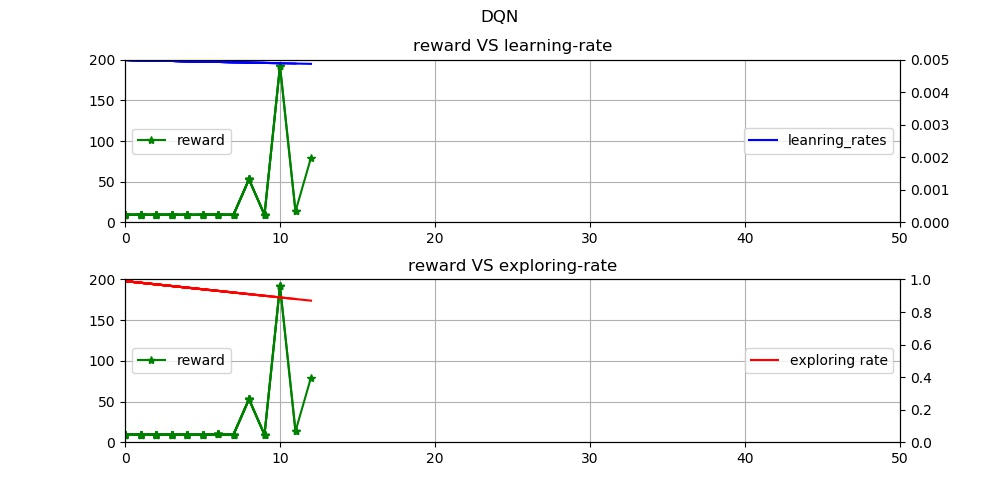
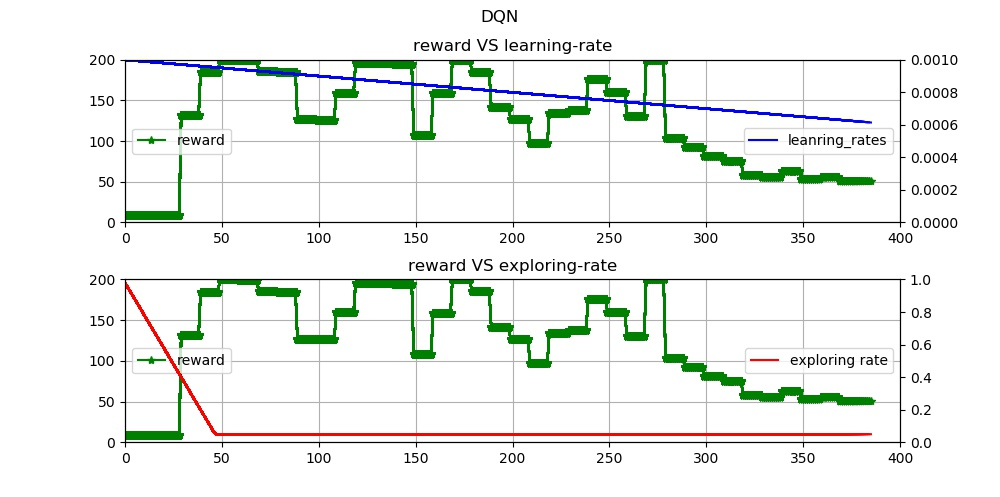
param

diff --git a/Cartpole/DQN/main.py b/Cartpole/DQN/main.py
@@ -14,15 +14,17 @@ plt.ion()
 
 CONFIG = {
 
-    "POOL_SIZE": 3096, #应该比较大，保存较多样本
-    "BASE_LR": 0.005, #学习率 10e-3左右
+    "POOL_SIZE": 1024, #应该比较大，保存较多样本
+    "BASE_LR": 0.001, #学习率 10e-3左右,不易过大
     "LAMBDA_Q1": 0.9, #表示未来可期的收益，不易太小
     "COPY_EVERY_TRAINING": 1, #训练n次后，复制一次网络
-    "BATCH_EACH_EPOCH":64,
+    "TEST_EVERY_TRAINING": 10, #训练n次后，测试一次网络
+    "BATCH_EACH_EPOCH_MAX":256, #不易超过steps in one epochs
     "PLAYING_EACH_EPOCH": 8, #每一轮进行若干轮游戏，收集样本
     "REWARD_NEG":-10, #失败时的惩罚，这个值很重要
     "BALANCED_SAMPLING":False,
-    "LOSS":"HuberLoss"
+    "LOSS":"HuberLoss",
+    "TARGET_UPDATE_TAU": 0.2 #target模型更新权重，减小可以提高训练稳定性，加速收敛
 }
 
 class SAMPLE_POOL:
@@ -87,12 +89,15 @@ class MODEL(mx.gluon.Block):
         return self.model(x)
 
     def copy_from(self, other):
+        tau = CONFIG["TARGET_UPDATE_TAU"]
         params = other.collect_params()
         params_self = self.collect_params()
         for name,param in params.items():
             key = name.replace(params.prefix,"")
             selfname = params_self.prefix + key
-            params_self[selfname].set_data(param.data())
+            #params_self[selfname].set_data(param.data())
+            new_data = params_self[selfname].data() * (1 - tau) + tau * param.data()
+            params_self[selfname].set_data(new_data)
         return
 
 
@@ -110,14 +115,14 @@ def PredictAction(net,S):
 
 
 def Train_QLearning(nets, opt, pool):
-    batchs_total = CONFIG['BATCH_EACH_EPOCH']
+    batchs_total = min([CONFIG['BATCH_EACH_EPOCH_MAX'],pool.len()])
     batch_size = 1
     if CONFIG["LOSS"] == "L2Loss":
         calc_q_loss = mx.gluon.loss.L2Loss()  # using regression loss!!!
     elif CONFIG["LOSS"] == "HuberLoss":
         calc_q_loss = mx.gluon.loss.HuberLoss()
-    net = nets['now']
-    net_target = nets['last']
+    net = nets["qnet"]
+    net_target = nets["target"]
     for _ in range(batchs_total):
         batch_data = pool.get_one_batch(batch_size)
         S0 = [d[0] for d in batch_data]
@@ -181,7 +186,7 @@ def play_one_round(env, model, sample_pool, prob_to_explore, show_wnd = False):
     return sum_reward
 
 
-def play_games(epochs_total = 500):
+def play_games(epochs_total = 1000):
     env = gym.make("CartPole-v0")
     np.random.seed(10)
 
@@ -217,17 +222,17 @@ def play_games(epochs_total = 500):
 
 
     models = {
-        "now": MODEL(),
-        "last": MODEL()
+        "qnet": MODEL(),
+        "target": MODEL()
     }
     #避免mxnet的延迟初始化
     for key in models.keys():
         models[key].initialize()
         input_one = mx.nd.ones((1, 4))
         models[key](input_one)
-    models['last'].copy_from(models['now'])
+    models["target"].copy_from(models["qnet"])
 
-    trainer = mx.gluon.Trainer(models['now'].collect_params(),
+    trainer = mx.gluon.Trainer(models["qnet"].collect_params(),
                                "adam",
                                {"learning_rate": CONFIG['BASE_LR']})
 
@@ -247,23 +252,26 @@ def play_games(epochs_total = 500):
 
 
         #set explore rate. exploring at first 50 epochs
-        explore_rate = 1 - float(epoch) / 100.0
-        explore_rate = max([0,explore_rate])
+        explore_rate = 1 - float(epoch) / 50.0
+        explore_rate = max([0.05,explore_rate])
         explore_rates.append(explore_rate)
         #PLAY AND TRAINING
+        #sample_pool.reset()
         for batch_num in range(CONFIG['PLAYING_EACH_EPOCH']):
-            play_one_round(env, models["now"],sample_pool, explore_rate)
+            play_one_round(env, models["qnet"],sample_pool, explore_rate)
             sample_pool.begin_sampling()
-            models['now'] = Train_QLearning(models, trainer, sample_pool)
+            models["qnet"] = Train_QLearning(models, trainer, sample_pool)
             sample_pool.end_sampling()
+            #print(sample_pool.stat_action())
 
-        if epoch % CONFIG['COPY_EVERY_TRAINING'] == 0:
-            #UPDATE MODEL OF LAST
-            models['last'].copy_from(models['now'])
+        # UPDATE TARGET MODEL
+        models["target"].copy_from(models["qnet"])
+
+        if test_rewards == [] or epoch % CONFIG['TEST_EVERY_TRAINING'] == 0:
             #TESTING NEW MODEL
             rewards = 0
             for _ in range(100):
-                rewards += play_one_round(env, models["last"], None,0,show_wnd=True)
+                rewards += play_one_round(env, models["target"], None,0,show_wnd=True)
             test_rewards.append(rewards /100.0)
         else:
             test_rewards.append(test_rewards[-1]) #copy reward from last epoch if not testing
